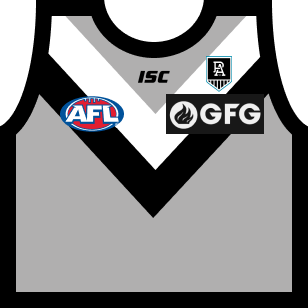
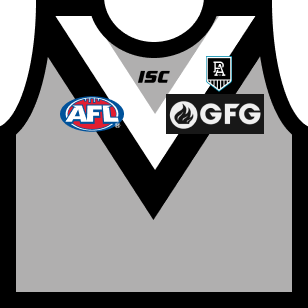
Updated Port Adelaide jumper chevron angles

diff --git a/docs/js/main.min.js b/docs/js/main.min.js
@@ -1,1 +1,1 @@
-function scroll(){$(window).on("scroll",function(){$(this).scrollTop()>=$(".c-fixture__round").offset().top-500?$(".js-scrollto-fixture").addClass("is-hidden"):$(".js-scrollto-fixture").removeClass("is-hidden")}),$(".js-scrollto-fixture").on("click",function(){$("html, body").animate({scrollTop:$(".js-game-pregame").offset().top-36},{duration:400,specialEasing:"easeInOut"})}),$(".c-fixture__game").each(function(){$(this).hasClass("c-fixture__game--in-progress")&&($(".js-scrollto-fixture").addClass("has-live"),$(".js-scrollto-fixture").on("click",function(){$("html, body").animate({scrollTop:$(".c-fixture__game--in-progress").offset().top-36},{duration:400,specialEasing:"easeInOut"})}))})}function dataFixture(e){$.getJSON("https://statsapi.foxsports.com.au/3.0/api/sports/afl/series/1/seasons/124/fixturesandresults.json?userkey=6B2F4717-A97C-49F6-8514-3600633439B9",function(e){console.log("fixture loaded"),console.log(e);var s=new Date,a=(new Date("2018-04-24"),[]),t=roundCalc(s);for($(".js-fixture-round").text(t),i=0;i<e.length;i++){const m=e[i];m.round.number==t&&a.push(m)}console.log(a);a[8];for(i=0;i<a.length;i++){const m=a[i];fixtureItem(m)}})}function dataLadder(){$.getJSON("https://statsapi.foxsports.com.au/3.0/api/sports/afl/series/1/seasons/123/ladder.json?userkey=6B2F4717-A97C-49F6-8514-3600633439B9",function(e){$(".c-ladder__round");for(console.log(e),i=0;i<e.teams.length;i++){ladderItem(e.teams[i],i+1)}})}function dateTime(e){var s=new Date(e),a=s.getDate();return{day:function(e){var s=e.getDay();return 0==s?"Sunday":1==s?"Monday":2==s?"Tuesday":3==s?"Wednesday":4==s?"Thursday":5==s?"Friday":6==s?"Saturday":void 0}(s),month:function(e){var s=e.getMonth();return 0==s?"Jan":1==s?"Feb":2==s?"Mar":3==s?"Apr":4==s?"May":5==s?"Jun":6==s?"Jul":7==s?"Aug":8==s?"Sep":9==s?"Oct":10==s?"Nov":11==s?"Dec":void 0}(s),date:a,time:function(e){return e.getHours()+":"+("0"+e.getMinutes()).slice(-2)}(s)}}function finals(e){function s(e,s){var a=s,t=dateTime(a.match_start_date),m=e.children(".c-date"),i=e.children(".js-fixture-team-1"),n=e.children(".js-fixture-team-2"),r=e.children(".js-fixture-venue");"Pre Game"==a.match_status?(m.children(".c-date__day").text(t.day),m.children(".c-date__month").text(t.month),m.children(".c-date__date").text(t.date),m.children(".c-date__time").text(t.time)):"Full Time"==a.match_status?(e.addClass("full-time"),m.children(".c-date__day").text(t.day),m.children(".c-date__month").text(t.month),m.children(".c-date__date").text(t.date),m.children(".c-date__time").text("FT")):(e.addClass("live"),m.append('<span class="c-date__live">LIVE</span><span class="c-date__status">'+a.match_status+'</span><span class="c-date__played-time">'+a.match_time+"</span>")),i.children(".js-team-img").attr("src",homeKit(a.team_A.code)),i.children(".js-team-text").text(teamAbrev(a.team_A.code,a.team_A.name)),"Pre Game"!==a.match_status&&i.children(".js-score-text").text("").append(a.team_A.goals+". "+a.team_A.behinds+'. <span class="c-fixture__score-total">'+a.team_A.score+"</span>"),n.children(".js-team-img").attr("src",awayKit(a.team_B.code,a.team_A.code)),n.children(".js-team-text").text(teamAbrev(a.team_B.code,a.team_B.name)),"Pre Game"!==a.match_status&&n.children(".js-score-text").text("").append(a.team_B.goals+". "+a.team_B.behinds+'. <span class="c-fixture__score-total">'+a.team_B.score+"</span>"),r.text(a.venue.name)}function a(e){return"post"==e.match_status_normalised&&e.team_A.score>e.team_B.score?{name:teamAbrev(e.team_A.code),bg:team_bg(e.team_A.code)}:"post"==e.match_status_normalised&&e.team_B.score>e.team_A.score?{name:teamAbrev(e.team_B.code),bg:team_bg(e.team_B.code)}:{name:"?",bg:"img/teams/"}}console.log(e);var t=e[8];$(".js-finals-series-year").text(e[0].season.year),$(".js-premiership-year").text(e[0].season.year),s($(".js-finals-qf1"),e[1]),s($(".js-finals-qf2"),e[3]),s($(".js-finals-ef1"),e[0]),s($(".js-finals-ef2"),e[2]),s($(".js-finals-sf1"),e[4]),s($(".js-finals-sf2"),e[5]),s($(".js-finals-pf1"),e[7]),s($(".js-finals-pf2"),e[6]),s($(".js-finals-gf"),t),$(".js-premiers-name").text(a(t).name),$(".js-premiers-bg").css({"background-image":"url("+a(t).bg+")","background-size":"cover"})}function fixtureItem(e){var s=dateTime(e.match_start_date),a=e.match_status;"Pre Game"==a?$(".js-fixture").before('<div class="c-fixture__game js-game-pregame"><div class= "c-fixture__date c-date" ><span class="c-date__day">'+s.day+'</span><span class="c-date__month">'+s.month+'</span><span class="c-date__date">'+s.date+'</span><span class="c-date__time">'+s.time+'</span></div ><div class="c-fixture__team js-fixture-team-1"><img class="js-team-img" src="'+homeKit(e.team_A.code)+'" /><span class="js-team-text">'+teamAbrev(e.team_A.code)+'</span><span class="c-fixture__score js-score-text">-</span></div><div class="c-fixture__vs">vs</div><div class="c-fixture__team js-fixture-team-2"><img class="js-team-img" src="'+awayKit(e.team_B.code,e.team_A.code)+'" /><span class="js-team-text">'+teamAbrev(e.team_B.code)+'</span><span class="c-fixture__score js-score-text">-</span></div><div class="c-fixture__venue js-fixture-venue">'+e.venue.name+"</div></div>"):"Full Time"==a?$(".js-fixture").before('<div class="c-fixture__game c-fixture__game--completed"><div class= "c-fixture__date c-date" ><span class="c-date__day">'+s.day+'</span><span class="c-date__month">'+s.month+'</span><span class="c-date__date">'+s.date+'</span><span class="c-date__time">FT</span></div ><div class="c-fixture__team js-fixture-team-1"><img class="js-team-img" src="'+homeKit(e.team_A.code)+'" /><span class="js-team-text">'+teamAbrev(e.team_A.code)+'</span><span class="c-fixture__score js-score-text">'+e.team_A.goals+". "+e.team_A.behinds+'. <span class="c-fixture__score-total">'+e.team_A.score+'</span></span></div><div class="c-fixture__vs">vs</div><div class="c-fixture__team js-fixture-team-2"><img class="js-team-img" src="'+awayKit(e.team_B.code,e.team_A.code)+'" /><span class="js-team-text">'+teamAbrev(e.team_B.code)+'</span><span class="c-fixture__score js-score-text">'+e.team_B.goals+". "+e.team_B.behinds+'. <span class="c-fixture__score-total">'+e.team_B.score+'</span></span></div><div class="c-fixture__venue js-fixture-venue">'+e.venue.name+"</div></div>"):$(".js-fixture").before('<div class="c-fixture__game c-fixture__game--in-progress"><div class= "c-fixture__date c-date" ><span class="c-date__live">LIVE</span><span class="c-date__status">'+a+'</span><span class="c-date__time">'+e.match_time+'</span></div ><div class="c-fixture__team js-fixture-team-1"><img class="js-team-img" src="'+homeKit(e.team_A.code)+'" /><span class="js-team-text">'+teamAbrev(e.team_A.code)+'</span><span class="c-fixture__score js-score-text">'+e.team_A.goals+". "+e.team_A.behinds+'. <span class="c-fixture__score-total">'+e.team_A.score+'</span></span></div><div class="c-fixture__vs">vs</div><div class="c-fixture__team js-fixture-team-2"><img class="js-team-img" src="'+awayKit(e.team_B.code,e.team_A.code)+'" /><span class="js-team-text">'+teamAbrev(e.team_B.code)+'</span><span class="c-fixture__score js-score-text">'+e.team_B.goals+". "+e.team_B.behinds+'. <span class="c-fixture__score-total">'+e.team_B.score+'</span></span></div><div class="c-fixture__venue js-fixture-venue">'+e.venue.name+"</div></div>")}function homeKit(e){var s=e;return"ADE"==s?"img/teams/crows-home.png":"BRI"==s?"img/teams/lions-home.png":"CAR"==s?"img/teams/blues-home.png":"COL"==s?"img/teams/magpies-home.png":"ESS"==s?"img/teams/bombers-home.png":"FRE"==s?"img/teams/dockers-home.png":"GEE"==s?"img/teams/cats-home.png":"GCS"==s?"img/teams/suns-home.png":"GWS"==s?"img/teams/gws-home.png":"HAW"==s?"img/teams/hawks-home.png":"MEL"==s?"img/teams/demons-home.png":"NM"==s?"img/teams/kangaroos-home.png":"POR"==s?"img/teams/port-home.png":"RIC"==s?"img/teams/tigers-home.png":"STK"==s?"img/teams/saints-home.png":"SYD"==s?"img/teams/swans-home.png":"WCE"==s?"img/teams/eagles-home.png":"WBD"==s?"img/teams/dogs-home.png":void 0}function awayKit(e,s){var a=e;return"ADE"==a?"GEE"==s||"SYD"==s?"img/teams/crows-home.png":"img/teams/crows-away.png":"BRI"==a?"SYD"==s||"GWS"==s||"GCS"==s||"WCE"==s||"ADE"==s||"FRE"==s||"POR"==s?"img/teams/lions-clash.png":"img/teams/lions-away.png":"CAR"==a?"GEE"==s||"SYD"==s||"HAW"==s||"GCS"==s?"img/teams/blues-home.png":"img/teams/blues-clash.png":"COL"==a?"GEE"==s?"img/teams/magpies-home.png":"img/teams/magpies-clash.png":"ESS"==a?"MEL"==s||"COL"==s||"CAR"==s||"POR"==s||"STK"==s||"RIC"==s?"img/teams/bombers-clash.png":"img/teams/bombers-home.png":"FRE"==a?"img/teams/dockers-away.png":"GEE"==a?"img/teams/cats-home.png":"GCS"==a?"WBD"==s||"CAR"==s||"FRE"==s||"NM"==s||"WCE"==s?"img/teams/suns-home.png":"img/teams/suns-away.png":"GWS"==a?"SYD"==s?"img/teams/gws-home.png":"img/teams/gws-away.png":"HAW"==a?"img/teams/hawks-away.png":"MEL"==a?"img/teams/demons-clash.png":"NM"==a?"img/teams/kangaroos-clash.png":"POR"==a?"ADE"==s||"ESS"==s||"COL"==s||"RIC"==s?"img/teams/port-clash.png":"img/teams/port-home.png":"RIC"==a?"img/teams/tigers-away.png":"STK"==a?"img/teams/saints-away.png":"SYD"==a?"img/teams/swans-home.png":"WCE"==a?"HAW"==s?"img/teams/eagles-home.png":"img/teams/eagles-away.png":"WBD"==a?"GEE"==s||"SYD"==s?"img/teams/dogs-home.png":"img/teams/dogs-away.png":void 0}function ladderItem(e,s){$(".c-ladder__item-"+s+" div.c-ladder__team").children("span").text(teamAbrev(e.code)),$(".c-ladder__item-"+s+" div.c-ladder__team").children("img").attr("src",teamImg(e.code)),$(".c-ladder__item-"+s+" div.c-ladder__played").text(e.stats.played),$(".c-ladder__item-"+s+" div.c-ladder__wins").text(e.stats.won),$(".c-ladder__item-"+s+" div.c-ladder__draws").text(e.stats.drawn),$(".c-ladder__item-"+s+" div.c-ladder__losses").text(e.stats.lost),$(".c-ladder__item-"+s+" div.c-ladder__points-for").text(e.stats.for),$(".c-ladder__item-"+s+" div.c-ladder__points-against").text(e.stats.against),$(".c-ladder__item-"+s+" div.c-ladder__percentage").text(e.stats.percentage),$(".c-ladder__item-"+s+" div.c-ladder__points").text(e.stats.points)}function roundCalc(e){var s=new Date(e),a=s.getMonth(),t=s.getDate();return 0==a||1==a&&t<=28||2==a&&t<=25?1:2==a&&t<=31?2:3==a&&t<=8?3:3==a&&t<=15?4:3==a&&t<=25?5:3==a&&t<=29?6:3==a&&t<=31||4==a&&t<=6?7:4==a&&t<=13?8:4==a&&t<=20?9:4==a&&t<=27?10:4==a&&t<=31||5==a&&t<=3?11:5==a&&t<=11?12:5==a&&t<=17?13:5==a&&t<=24?14:5==a&&t<=31||6==a&&t<=1?15:6==a&&t<=8?16:6==a&&t<=15?17:6==a&&t<=22?18:6==a&&t<=29?19:6==a&&t<=31||7==a&&t<=5?20:7==a&&t<=12?21:7==a&&t<=19?22:7==a&&t<=23?23:8==a?23:void 0}function teamAbrev(e,s){var a=e;return"ADE"==a?"Adelaide":"BRI"==a?"Brisbane":"CAR"==a?"Carlton":"COL"==a?"Collingwood":"ESS"==a?"Essendon":"WBD"==a?"W. Bulldogs":"FRE"==a?"Fremantle":"GEE"==a?"Geelong":"GCS"==a?"Gold Coast":"GWS"==a?"Gr. W. Sydney":"HAW"==a?"Hawthorn":"MEL"==a?"Melbourne":"NM"==a?"N. Melbourne":"POR"==a?"Port Adelaide":"RIC"==a?"Richmond":"STK"==a?"St. Kilda":"SYD"==a?"Sydney":"WCE"==a?"West Coast":s}function team_bg(e){return"ADE"==e?"img/teams/crows.svg":"BRI"==e?"img/teams/lions.svg":"CAR"==e?"img/teams/blues.svg":"COL"==e?"img/teams/magpies.svg":"ESS"==e?"img/teams/bombers.svg":"FRE"==e?"img/teams/dockers.svg":"GEE"==e?"img/teams/cats.svg":"GCS"==e?"img/teams/suns.svg":"GWS"==e?"img/teams/gws.svg":"HAW"==e?"img/teams/hawks.svg":"MEL"==e?"img/teams/demons.svg":"NM"==e?"img/teams/kangaroos.svg":"POR"==e?"img/teams/port.svg":"RIC"==e?"img/teams/tigers.svg":"STK"==e?"img/teams/saints.svg":"SYD"==e?"img/teams/swans.svg":"WCE"==e?"img/teams/eagles.svg":"WBD"==e?"img/teams/dogs.svg":void 0}function teamImg(e){return"ADE"==e?"img/teams/crows.png":"BRI"==e?"img/teams/lions.png":"CAR"==e?"img/teams/blues.png":"COL"==e?"img/teams/magpies.png":"ESS"==e?"img/teams/bombers.png":"FRE"==e?"img/teams/dockers.png":"GEE"==e?"img/teams/cats.png":"GCS"==e?"img/teams/suns.png":"GWS"==e?"img/teams/gws.png":"HAW"==e?"img/teams/hawks.png":"MEL"==e?"img/teams/demons.png":"NM"==e?"img/teams/kangaroos.png":"POR"==e?"img/teams/port.png":"RIC"==e?"img/teams/tigers.png":"STK"==e?"img/teams/saints.png":"SYD"==e?"img/teams/swans.png":"WCE"==e?"img/teams/eagles.png":"WBD"==e?"img/teams/dogs.png":void 0}function vertCenter(e,s){var a=e.parent().height();e.css({height:a+"px","line-height":a+"px"}),e.children(s).css({height:e.children(s).height(),"padding-top":(a-e.children(s).height())/2+"px","padding-bottom":(a-e.children(s).height())/2+"px"})}function clearStyles(e,s){e.attr("style",""),s.attr("style","")}dataLadder(),dataFixture();var ladder=function(){var e=$('.c-ladder__team:contains("Greater Western Sydney")');e.children("span").text("GWS"),e.children("img").attr("src","img/teams/gws.svg"),$('.c-ladder__team:contains("Hawthorn")').children("img").attr("src","img/teams/hawks.svg"),$('.c-ladder__team:contains("Gold Coast")').children("img").attr("src","img/teams/suns.svg"),$('.c-ladder__team:contains("Sydney")').children("img").attr("src","img/teams/swans.svg"),$('.c-ladder__team:contains("St Kilda")').children("img").attr("src","img/teams/saints.svg"),$('.c-ladder__team:contains("Richmond")').children("img").attr("src","img/teams/tigers.svg"),$('.c-ladder__team:contains("Essendon")').children("img").attr("src","img/teams/bombers.svg"),$('.c-ladder__team:contains("Geelong")').children("img").attr("src","img/teams/cats.svg"),$('.c-ladder__team:contains("Melbourne")').children("img").attr("src","img/teams/demons.svg"),$('.c-ladder__team:contains("Adelaide")').children("img").attr("src","img/teams/crows.svg"),$('.c-ladder__team:contains("Carlton")').children("img").attr("src","img/teams/blues.svg"),$('.c-ladder__team:contains("Port Adelaide")').children("img").attr("src","img/teams/port.svg"),$('.c-ladder__team:contains("Brisbane")').children("img").attr("src","img/teams/lions.svg"),$('.c-ladder__team:contains("West Coast")').children("img").attr("src","img/teams/eagles.svg"),$('.c-ladder__team:contains("North Melbourne")').children("img").attr("src","img/teams/kangaroos.svg"),$('.c-ladder__team:contains("Collingwood")').children("img").attr("src","img/teams/magpies.svg"),$('.c-ladder__team:contains("Fremantle")').children("img").attr("src","img/teams/dockers.svg"),$('.c-ladder__team:contains("Bulldogs")').children("img").attr("src","img/teams/dogs.svg")};$(window).on("resize",function(){});
+function dataFixture(e){$.getJSON("https://statsapi.foxsports.com.au/3.0/api/sports/afl/series/1/seasons/124/fixturesandresults.json?userkey=6B2F4717-A97C-49F6-8514-3600633439B9",function(e){console.log("fixture loaded"),console.log(e);var s=new Date,a=(new Date("2018-04-24"),[]),t=roundCalc(s);for($(".js-fixture-round").text(t),i=0;i<e.length;i++){const m=e[i];m.round.number==t&&a.push(m)}console.log(a);a[8];for(i=0;i<a.length;i++){const m=a[i];fixtureItem(m)}})}function dataLadder(){$.getJSON("https://statsapi.foxsports.com.au/3.0/api/sports/afl/series/1/seasons/123/ladder.json?userkey=6B2F4717-A97C-49F6-8514-3600633439B9",function(e){$(".c-ladder__round");for(console.log(e),i=0;i<e.teams.length;i++){ladderItem(e.teams[i],i+1)}})}function dateTime(e){var s=new Date(e),a=s.getDate();return{day:function(e){var s=e.getDay();return 0==s?"Sunday":1==s?"Monday":2==s?"Tuesday":3==s?"Wednesday":4==s?"Thursday":5==s?"Friday":6==s?"Saturday":void 0}(s),month:function(e){var s=e.getMonth();return 0==s?"Jan":1==s?"Feb":2==s?"Mar":3==s?"Apr":4==s?"May":5==s?"Jun":6==s?"Jul":7==s?"Aug":8==s?"Sep":9==s?"Oct":10==s?"Nov":11==s?"Dec":void 0}(s),date:a,time:function(e){return e.getHours()+":"+("0"+e.getMinutes()).slice(-2)}(s)}}function finals(e){function s(e,s){var a=s,t=dateTime(a.match_start_date),m=e.children(".c-date"),i=e.children(".js-fixture-team-1"),n=e.children(".js-fixture-team-2"),r=e.children(".js-fixture-venue");"Pre Game"==a.match_status?(m.children(".c-date__day").text(t.day),m.children(".c-date__month").text(t.month),m.children(".c-date__date").text(t.date),m.children(".c-date__time").text(t.time)):"Full Time"==a.match_status?(e.addClass("full-time"),m.children(".c-date__day").text(t.day),m.children(".c-date__month").text(t.month),m.children(".c-date__date").text(t.date),m.children(".c-date__time").text("FT")):(e.addClass("live"),m.append('<span class="c-date__live">LIVE</span><span class="c-date__status">'+a.match_status+'</span><span class="c-date__played-time">'+a.match_time+"</span>")),i.children(".js-team-img").attr("src",homeKit(a.team_A.code)),i.children(".js-team-text").text(teamAbrev(a.team_A.code,a.team_A.name)),"Pre Game"!==a.match_status&&i.children(".js-score-text").text("").append(a.team_A.goals+". "+a.team_A.behinds+'. <span class="c-fixture__score-total">'+a.team_A.score+"</span>"),n.children(".js-team-img").attr("src",awayKit(a.team_B.code,a.team_A.code)),n.children(".js-team-text").text(teamAbrev(a.team_B.code,a.team_B.name)),"Pre Game"!==a.match_status&&n.children(".js-score-text").text("").append(a.team_B.goals+". "+a.team_B.behinds+'. <span class="c-fixture__score-total">'+a.team_B.score+"</span>"),r.text(a.venue.name)}function a(e){return"post"==e.match_status_normalised&&e.team_A.score>e.team_B.score?{name:teamAbrev(e.team_A.code),bg:team_bg(e.team_A.code)}:"post"==e.match_status_normalised&&e.team_B.score>e.team_A.score?{name:teamAbrev(e.team_B.code),bg:team_bg(e.team_B.code)}:{name:"?",bg:"img/teams/"}}console.log(e);var t=e[8];$(".js-finals-series-year").text(e[0].season.year),$(".js-premiership-year").text(e[0].season.year),s($(".js-finals-qf1"),e[1]),s($(".js-finals-qf2"),e[3]),s($(".js-finals-ef1"),e[0]),s($(".js-finals-ef2"),e[2]),s($(".js-finals-sf1"),e[4]),s($(".js-finals-sf2"),e[5]),s($(".js-finals-pf1"),e[7]),s($(".js-finals-pf2"),e[6]),s($(".js-finals-gf"),t),$(".js-premiers-name").text(a(t).name),$(".js-premiers-bg").css({"background-image":"url("+a(t).bg+")","background-size":"cover"})}function fixtureItem(e){var s=dateTime(e.match_start_date),a=e.match_status;"Pre Game"==a?$(".js-fixture").before('<div class="c-fixture__game js-game-pregame"><div class= "c-fixture__date c-date" ><span class="c-date__day">'+s.day+'</span><span class="c-date__month">'+s.month+'</span><span class="c-date__date">'+s.date+'</span><span class="c-date__time">'+s.time+'</span></div ><div class="c-fixture__team js-fixture-team-1"><img class="js-team-img" src="'+homeKit(e.team_A.code)+'" /><span class="js-team-text">'+teamAbrev(e.team_A.code)+'</span><span class="c-fixture__score js-score-text">-</span></div><div class="c-fixture__vs">vs</div><div class="c-fixture__team js-fixture-team-2"><img class="js-team-img" src="'+awayKit(e.team_B.code,e.team_A.code)+'" /><span class="js-team-text">'+teamAbrev(e.team_B.code)+'</span><span class="c-fixture__score js-score-text">-</span></div><div class="c-fixture__venue js-fixture-venue">'+e.venue.name+"</div></div>"):"Full Time"==a?$(".js-fixture").before('<div class="c-fixture__game c-fixture__game--completed"><div class= "c-fixture__date c-date" ><span class="c-date__day">'+s.day+'</span><span class="c-date__month">'+s.month+'</span><span class="c-date__date">'+s.date+'</span><span class="c-date__time">FT</span></div ><div class="c-fixture__team js-fixture-team-1"><img class="js-team-img" src="'+homeKit(e.team_A.code)+'" /><span class="js-team-text">'+teamAbrev(e.team_A.code)+'</span><span class="c-fixture__score js-score-text">'+e.team_A.goals+". "+e.team_A.behinds+'. <span class="c-fixture__score-total">'+e.team_A.score+'</span></span></div><div class="c-fixture__vs">vs</div><div class="c-fixture__team js-fixture-team-2"><img class="js-team-img" src="'+awayKit(e.team_B.code,e.team_A.code)+'" /><span class="js-team-text">'+teamAbrev(e.team_B.code)+'</span><span class="c-fixture__score js-score-text">'+e.team_B.goals+". "+e.team_B.behinds+'. <span class="c-fixture__score-total">'+e.team_B.score+'</span></span></div><div class="c-fixture__venue js-fixture-venue">'+e.venue.name+"</div></div>"):$(".js-fixture").before('<div class="c-fixture__game c-fixture__game--in-progress"><div class= "c-fixture__date c-date" ><span class="c-date__live">LIVE</span><span class="c-date__status">'+a+'</span><span class="c-date__time">'+e.match_time+'</span></div ><div class="c-fixture__team js-fixture-team-1"><img class="js-team-img" src="'+homeKit(e.team_A.code)+'" /><span class="js-team-text">'+teamAbrev(e.team_A.code)+'</span><span class="c-fixture__score js-score-text">'+e.team_A.goals+". "+e.team_A.behinds+'. <span class="c-fixture__score-total">'+e.team_A.score+'</span></span></div><div class="c-fixture__vs">vs</div><div class="c-fixture__team js-fixture-team-2"><img class="js-team-img" src="'+awayKit(e.team_B.code,e.team_A.code)+'" /><span class="js-team-text">'+teamAbrev(e.team_B.code)+'</span><span class="c-fixture__score js-score-text">'+e.team_B.goals+". "+e.team_B.behinds+'. <span class="c-fixture__score-total">'+e.team_B.score+'</span></span></div><div class="c-fixture__venue js-fixture-venue">'+e.venue.name+"</div></div>")}function homeKit(e){var s=e;return"ADE"==s?"img/teams/crows-home.png":"BRI"==s?"img/teams/lions-home.png":"CAR"==s?"img/teams/blues-home.png":"COL"==s?"img/teams/magpies-home.png":"ESS"==s?"img/teams/bombers-home.png":"FRE"==s?"img/teams/dockers-home.png":"GEE"==s?"img/teams/cats-home.png":"GCS"==s?"img/teams/suns-home.png":"GWS"==s?"img/teams/gws-home.png":"HAW"==s?"img/teams/hawks-home.png":"MEL"==s?"img/teams/demons-home.png":"NM"==s?"img/teams/kangaroos-home.png":"POR"==s?"img/teams/port-home.png":"RIC"==s?"img/teams/tigers-home.png":"STK"==s?"img/teams/saints-home.png":"SYD"==s?"img/teams/swans-home.png":"WCE"==s?"img/teams/eagles-home.png":"WBD"==s?"img/teams/dogs-home.png":void 0}function awayKit(e,s){var a=e;return"ADE"==a?"GEE"==s||"SYD"==s?"img/teams/crows-home.png":"img/teams/crows-away.png":"BRI"==a?"SYD"==s||"GWS"==s||"GCS"==s||"WCE"==s||"ADE"==s||"FRE"==s||"POR"==s?"img/teams/lions-clash.png":"img/teams/lions-away.png":"CAR"==a?"GEE"==s||"SYD"==s||"HAW"==s||"GCS"==s?"img/teams/blues-home.png":"img/teams/blues-clash.png":"COL"==a?"GEE"==s?"img/teams/magpies-home.png":"img/teams/magpies-clash.png":"ESS"==a?"MEL"==s||"COL"==s||"CAR"==s||"POR"==s||"STK"==s||"RIC"==s?"img/teams/bombers-clash.png":"img/teams/bombers-home.png":"FRE"==a?"img/teams/dockers-away.png":"GEE"==a?"img/teams/cats-home.png":"GCS"==a?"WBD"==s||"CAR"==s||"FRE"==s||"NM"==s||"WCE"==s?"img/teams/suns-home.png":"img/teams/suns-away.png":"GWS"==a?"SYD"==s?"img/teams/gws-home.png":"img/teams/gws-away.png":"HAW"==a?"img/teams/hawks-away.png":"MEL"==a?"img/teams/demons-clash.png":"NM"==a?"img/teams/kangaroos-clash.png":"POR"==a?"ADE"==s||"ESS"==s||"COL"==s||"RIC"==s?"img/teams/port-clash.png":"img/teams/port-home.png":"RIC"==a?"img/teams/tigers-away.png":"STK"==a?"img/teams/saints-away.png":"SYD"==a?"img/teams/swans-home.png":"WCE"==a?"HAW"==s?"img/teams/eagles-home.png":"img/teams/eagles-away.png":"WBD"==a?"GEE"==s||"SYD"==s?"img/teams/dogs-home.png":"img/teams/dogs-away.png":void 0}function ladderItem(e,s){$(".c-ladder__item-"+s+" div.c-ladder__team").children("span").text(teamAbrev(e.code)),$(".c-ladder__item-"+s+" div.c-ladder__team").children("img").attr("src",teamImg(e.code)),$(".c-ladder__item-"+s+" div.c-ladder__played").text(e.stats.played),$(".c-ladder__item-"+s+" div.c-ladder__wins").text(e.stats.won),$(".c-ladder__item-"+s+" div.c-ladder__draws").text(e.stats.drawn),$(".c-ladder__item-"+s+" div.c-ladder__losses").text(e.stats.lost),$(".c-ladder__item-"+s+" div.c-ladder__points-for").text(e.stats.for),$(".c-ladder__item-"+s+" div.c-ladder__points-against").text(e.stats.against),$(".c-ladder__item-"+s+" div.c-ladder__percentage").text(e.stats.percentage),$(".c-ladder__item-"+s+" div.c-ladder__points").text(e.stats.points)}function roundCalc(e){var s=new Date(e),a=s.getMonth(),t=s.getDate();return 0==a||1==a&&t<=28||2==a&&t<=25?1:2==a&&t<=31?2:3==a&&t<=8?3:3==a&&t<=15?4:3==a&&t<=25?5:3==a&&t<=29?6:3==a&&t<=31||4==a&&t<=6?7:4==a&&t<=13?8:4==a&&t<=20?9:4==a&&t<=27?10:4==a&&t<=31||5==a&&t<=3?11:5==a&&t<=11?12:5==a&&t<=17?13:5==a&&t<=24?14:5==a&&t<=31||6==a&&t<=1?15:6==a&&t<=8?16:6==a&&t<=15?17:6==a&&t<=22?18:6==a&&t<=29?19:6==a&&t<=31||7==a&&t<=5?20:7==a&&t<=12?21:7==a&&t<=19?22:7==a&&t<=23?23:8==a?23:void 0}function teamAbrev(e,s){var a=e;return"ADE"==a?"Adelaide":"BRI"==a?"Brisbane":"CAR"==a?"Carlton":"COL"==a?"Collingwood":"ESS"==a?"Essendon":"WBD"==a?"W. Bulldogs":"FRE"==a?"Fremantle":"GEE"==a?"Geelong":"GCS"==a?"Gold Coast":"GWS"==a?"Gr. W. Sydney":"HAW"==a?"Hawthorn":"MEL"==a?"Melbourne":"NM"==a?"N. Melbourne":"POR"==a?"Port Adelaide":"RIC"==a?"Richmond":"STK"==a?"St. Kilda":"SYD"==a?"Sydney":"WCE"==a?"West Coast":s}function team_bg(e){return"ADE"==e?"img/teams/crows.svg":"BRI"==e?"img/teams/lions.svg":"CAR"==e?"img/teams/blues.svg":"COL"==e?"img/teams/magpies.svg":"ESS"==e?"img/teams/bombers.svg":"FRE"==e?"img/teams/dockers.svg":"GEE"==e?"img/teams/cats.svg":"GCS"==e?"img/teams/suns.svg":"GWS"==e?"img/teams/gws.svg":"HAW"==e?"img/teams/hawks.svg":"MEL"==e?"img/teams/demons.svg":"NM"==e?"img/teams/kangaroos.svg":"POR"==e?"img/teams/port.svg":"RIC"==e?"img/teams/tigers.svg":"STK"==e?"img/teams/saints.svg":"SYD"==e?"img/teams/swans.svg":"WCE"==e?"img/teams/eagles.svg":"WBD"==e?"img/teams/dogs.svg":void 0}function teamImg(e){return"ADE"==e?"img/teams/crows.png":"BRI"==e?"img/teams/lions.png":"CAR"==e?"img/teams/blues.png":"COL"==e?"img/teams/magpies.png":"ESS"==e?"img/teams/bombers.png":"FRE"==e?"img/teams/dockers.png":"GEE"==e?"img/teams/cats.png":"GCS"==e?"img/teams/suns.png":"GWS"==e?"img/teams/gws.png":"HAW"==e?"img/teams/hawks.png":"MEL"==e?"img/teams/demons.png":"NM"==e?"img/teams/kangaroos.png":"POR"==e?"img/teams/port.png":"RIC"==e?"img/teams/tigers.png":"STK"==e?"img/teams/saints.png":"SYD"==e?"img/teams/swans.png":"WCE"==e?"img/teams/eagles.png":"WBD"==e?"img/teams/dogs.png":void 0}function vertCenter(e,s){var a=e.parent().height();e.css({height:a+"px","line-height":a+"px"}),e.children(s).css({height:e.children(s).height(),"padding-top":(a-e.children(s).height())/2+"px","padding-bottom":(a-e.children(s).height())/2+"px"})}function clearStyles(e,s){e.attr("style",""),s.attr("style","")}function scroll(){$(window).on("scroll",function(){$(this).scrollTop()>=$(".c-fixture__round").offset().top-500?$(".js-scrollto-fixture").addClass("is-hidden"):$(".js-scrollto-fixture").removeClass("is-hidden")}),$(".js-scrollto-fixture").on("click",function(){$("html, body").animate({scrollTop:$(".js-game-pregame").offset().top-36},{duration:400,specialEasing:"easeInOut"})}),$(".c-fixture__game").each(function(){$(this).hasClass("c-fixture__game--in-progress")&&($(".js-scrollto-fixture").addClass("has-live"),$(".js-scrollto-fixture").on("click",function(){$("html, body").animate({scrollTop:$(".c-fixture__game--in-progress").offset().top-36},{duration:400,specialEasing:"easeInOut"})}))})}dataLadder(),dataFixture(),$(window).on("resize",function(){});var ladder=function(){var e=$('.c-ladder__team:contains("Greater Western Sydney")');e.children("span").text("GWS"),e.children("img").attr("src","img/teams/gws.svg"),$('.c-ladder__team:contains("Hawthorn")').children("img").attr("src","img/teams/hawks.svg"),$('.c-ladder__team:contains("Gold Coast")').children("img").attr("src","img/teams/suns.svg"),$('.c-ladder__team:contains("Sydney")').children("img").attr("src","img/teams/swans.svg"),$('.c-ladder__team:contains("St Kilda")').children("img").attr("src","img/teams/saints.svg"),$('.c-ladder__team:contains("Richmond")').children("img").attr("src","img/teams/tigers.svg"),$('.c-ladder__team:contains("Essendon")').children("img").attr("src","img/teams/bombers.svg"),$('.c-ladder__team:contains("Geelong")').children("img").attr("src","img/teams/cats.svg"),$('.c-ladder__team:contains("Melbourne")').children("img").attr("src","img/teams/demons.svg"),$('.c-ladder__team:contains("Adelaide")').children("img").attr("src","img/teams/crows.svg"),$('.c-ladder__team:contains("Carlton")').children("img").attr("src","img/teams/blues.svg"),$('.c-ladder__team:contains("Port Adelaide")').children("img").attr("src","img/teams/port.svg"),$('.c-ladder__team:contains("Brisbane")').children("img").attr("src","img/teams/lions.svg"),$('.c-ladder__team:contains("West Coast")').children("img").attr("src","img/teams/eagles.svg"),$('.c-ladder__team:contains("North Melbourne")').children("img").attr("src","img/teams/kangaroos.svg"),$('.c-ladder__team:contains("Collingwood")').children("img").attr("src","img/teams/magpies.svg"),$('.c-ladder__team:contains("Fremantle")').children("img").attr("src","img/teams/dockers.svg"),$('.c-ladder__team:contains("Bulldogs")').children("img").attr("src","img/teams/dogs.svg")};

diff --git a/app/js/main.js b/app/js/main.js
@@ -5,111 +5,6 @@
 // Core Functions 
 dataLadder();
 dataFixture();
-// ==========================================================================
-// Fixture - Functions
-// ==========================================================================
-
-
-// 
-// Ladder
-// ======
-
-var ladder = function(){
-
-    // GWS
-    var giants = $('.c-ladder__team:contains("Greater Western Sydney")'); 
-    giants.children('span').text('GWS');
-    giants.children('img').attr('src', 'img/teams/gws.svg');
-
-    var hawks = $('.c-ladder__team:contains("Hawthorn")');
-    hawks.children('img').attr('src', 'img/teams/hawks.svg');
-
-    var suns = $('.c-ladder__team:contains("Gold Coast")');
-    suns.children('img').attr('src', 'img/teams/suns.svg');
-
-    var swans = $('.c-ladder__team:contains("Sydney")');
-    swans.children('img').attr('src', 'img/teams/swans.svg');
-
-    var saints = $('.c-ladder__team:contains("St Kilda")');
-    saints.children('img').attr('src', 'img/teams/saints.svg');
-
-    var tigers = $('.c-ladder__team:contains("Richmond")');
-    tigers.children('img').attr('src', 'img/teams/tigers.svg');
-
-    var bombers = $('.c-ladder__team:contains("Essendon")');
-    bombers.children('img').attr('src', 'img/teams/bombers.svg');
-
-    var cats = $('.c-ladder__team:contains("Geelong")');
-    cats.children('img').attr('src', 'img/teams/cats.svg');
-
-    var demons = $('.c-ladder__team:contains("Melbourne")');
-    demons.children('img').attr('src', 'img/teams/demons.svg');
-
-    var crows = $('.c-ladder__team:contains("Adelaide")');
-    crows.children('img').attr('src', 'img/teams/crows.svg');
-
-    var blues = $('.c-ladder__team:contains("Carlton")');
-    blues.children('img').attr('src', 'img/teams/blues.svg');
-    
-    // Port Adelaide
-    var port = $('.c-ladder__team:contains("Port Adelaide")');
-    port.children('img').attr('src', 'img/teams/port.svg');
-
-    var lions = $('.c-ladder__team:contains("Brisbane")');
-    lions.children('img').attr('src', 'img/teams/lions.svg');
-
-    var eagles = $('.c-ladder__team:contains("West Coast")');
-    eagles.children('img').attr('src', 'img/teams/eagles.svg');
-
-    var kangaroos = $('.c-ladder__team:contains("North Melbourne")');
-    kangaroos.children('img').attr('src', 'img/teams/kangaroos.svg');
-
-    var magpies = $('.c-ladder__team:contains("Collingwood")');
-    magpies.children('img').attr('src', 'img/teams/magpies.svg');
-
-    var dockers = $('.c-ladder__team:contains("Fremantle")');
-    dockers.children('img').attr('src', 'img/teams/dockers.svg');
-
-    var dogs = $('.c-ladder__team:contains("Bulldogs")');
-    dogs.children('img').attr('src', 'img/teams/dogs.svg');
-
-}
-function scroll() {
-   $(window).on('scroll', function(){
-      if ($(this).scrollTop() >= $('.c-fixture__round').offset().top - 500){
-         $('.js-scrollto-fixture').addClass('is-hidden');
-      } else {
-         $('.js-scrollto-fixture').removeClass('is-hidden');
-      }
-   });
-
-   $('.js-scrollto-fixture').on('click', function(){
-      $('html, body').animate(
-         {
-            scrollTop: $('.js-game-pregame').offset().top - 36,
-         }, {
-            duration: 400,
-            specialEasing: 'easeInOut'
-         }
-      )
-   });
-
-   $('.c-fixture__game').each(function(){
-      if ($(this).hasClass('c-fixture__game--in-progress')){
-         $('.js-scrollto-fixture').addClass('has-live');
-         $('.js-scrollto-fixture').on('click', function(){
-            $('html, body').animate(
-               {
-                  scrollTop: $('.c-fixture__game--in-progress').offset().top - 36,
-               }, {
-                  duration: 400,
-                  specialEasing: 'easeInOut'
-               }
-            )
-         });
-      }
-   });
-}
 
 // Data - Fixture/Results
 
@@ -904,3 +799,109 @@ $(window).on('resize', function() {
 // gitButton.addEventListener('click', function(){
 //     window.open('https://github.com/Toshibot/webapp-boilerplate', '_blank');
 // });
+
+// ==========================================================================
+// Fixture - Functions
+// ==========================================================================
+
+
+// 
+// Ladder
+// ======
+
+var ladder = function(){
+
+    // GWS
+    var giants = $('.c-ladder__team:contains("Greater Western Sydney")'); 
+    giants.children('span').text('GWS');
+    giants.children('img').attr('src', 'img/teams/gws.svg');
+
+    var hawks = $('.c-ladder__team:contains("Hawthorn")');
+    hawks.children('img').attr('src', 'img/teams/hawks.svg');
+
+    var suns = $('.c-ladder__team:contains("Gold Coast")');
+    suns.children('img').attr('src', 'img/teams/suns.svg');
+
+    var swans = $('.c-ladder__team:contains("Sydney")');
+    swans.children('img').attr('src', 'img/teams/swans.svg');
+
+    var saints = $('.c-ladder__team:contains("St Kilda")');
+    saints.children('img').attr('src', 'img/teams/saints.svg');
+
+    var tigers = $('.c-ladder__team:contains("Richmond")');
+    tigers.children('img').attr('src', 'img/teams/tigers.svg');
+
+    var bombers = $('.c-ladder__team:contains("Essendon")');
+    bombers.children('img').attr('src', 'img/teams/bombers.svg');
+
+    var cats = $('.c-ladder__team:contains("Geelong")');
+    cats.children('img').attr('src', 'img/teams/cats.svg');
+
+    var demons = $('.c-ladder__team:contains("Melbourne")');
+    demons.children('img').attr('src', 'img/teams/demons.svg');
+
+    var crows = $('.c-ladder__team:contains("Adelaide")');
+    crows.children('img').attr('src', 'img/teams/crows.svg');
+
+    var blues = $('.c-ladder__team:contains("Carlton")');
+    blues.children('img').attr('src', 'img/teams/blues.svg');
+    
+    // Port Adelaide
+    var port = $('.c-ladder__team:contains("Port Adelaide")');
+    port.children('img').attr('src', 'img/teams/port.svg');
+
+    var lions = $('.c-ladder__team:contains("Brisbane")');
+    lions.children('img').attr('src', 'img/teams/lions.svg');
+
+    var eagles = $('.c-ladder__team:contains("West Coast")');
+    eagles.children('img').attr('src', 'img/teams/eagles.svg');
+
+    var kangaroos = $('.c-ladder__team:contains("North Melbourne")');
+    kangaroos.children('img').attr('src', 'img/teams/kangaroos.svg');
+
+    var magpies = $('.c-ladder__team:contains("Collingwood")');
+    magpies.children('img').attr('src', 'img/teams/magpies.svg');
+
+    var dockers = $('.c-ladder__team:contains("Fremantle")');
+    dockers.children('img').attr('src', 'img/teams/dockers.svg');
+
+    var dogs = $('.c-ladder__team:contains("Bulldogs")');
+    dogs.children('img').attr('src', 'img/teams/dogs.svg');
+
+}
+function scroll() {
+   $(window).on('scroll', function(){
+      if ($(this).scrollTop() >= $('.c-fixture__round').offset().top - 500){
+         $('.js-scrollto-fixture').addClass('is-hidden');
+      } else {
+         $('.js-scrollto-fixture').removeClass('is-hidden');
+      }
+   });
+
+   $('.js-scrollto-fixture').on('click', function(){
+      $('html, body').animate(
+         {
+            scrollTop: $('.js-game-pregame').offset().top - 36,
+         }, {
+            duration: 400,
+            specialEasing: 'easeInOut'
+         }
+      )
+   });
+
+   $('.c-fixture__game').each(function(){
+      if ($(this).hasClass('c-fixture__game--in-progress')){
+         $('.js-scrollto-fixture').addClass('has-live');
+         $('.js-scrollto-fixture').on('click', function(){
+            $('html, body').animate(
+               {
+                  scrollTop: $('.c-fixture__game--in-progress').offset().top - 36,
+               }, {
+                  duration: 400,
+                  specialEasing: 'easeInOut'
+               }
+            )
+         });
+      }
+   });
+}
